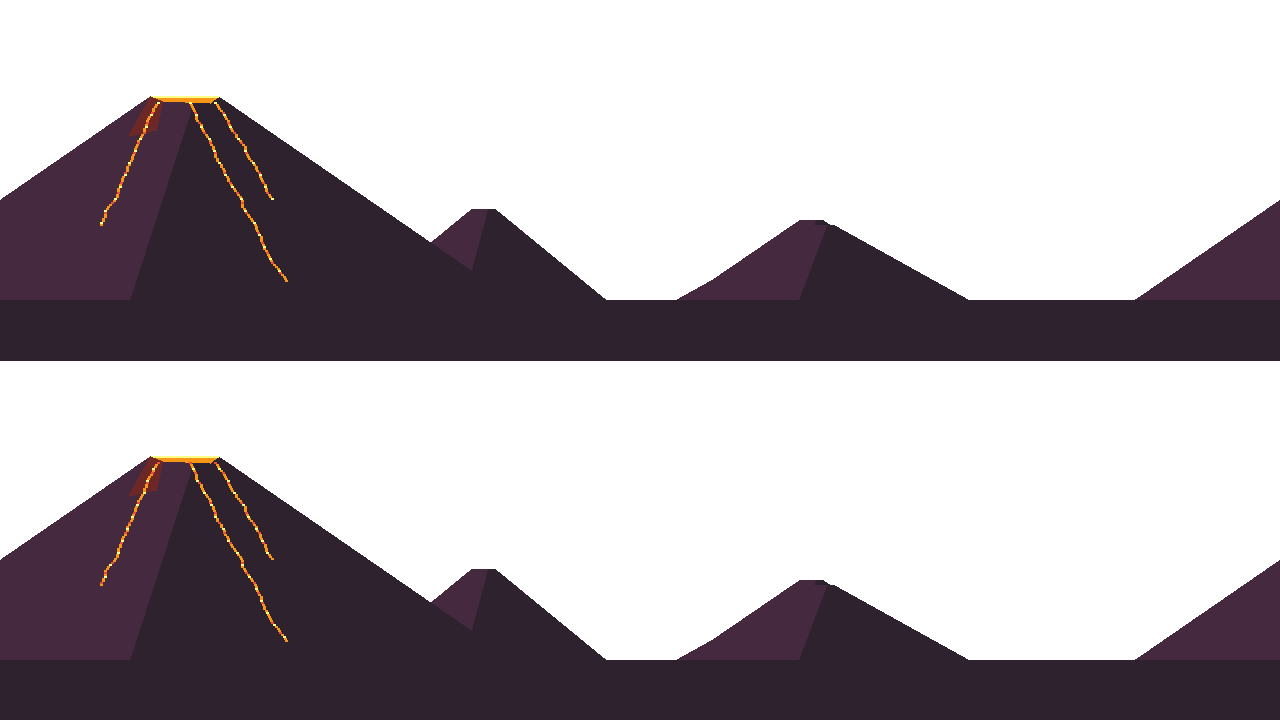
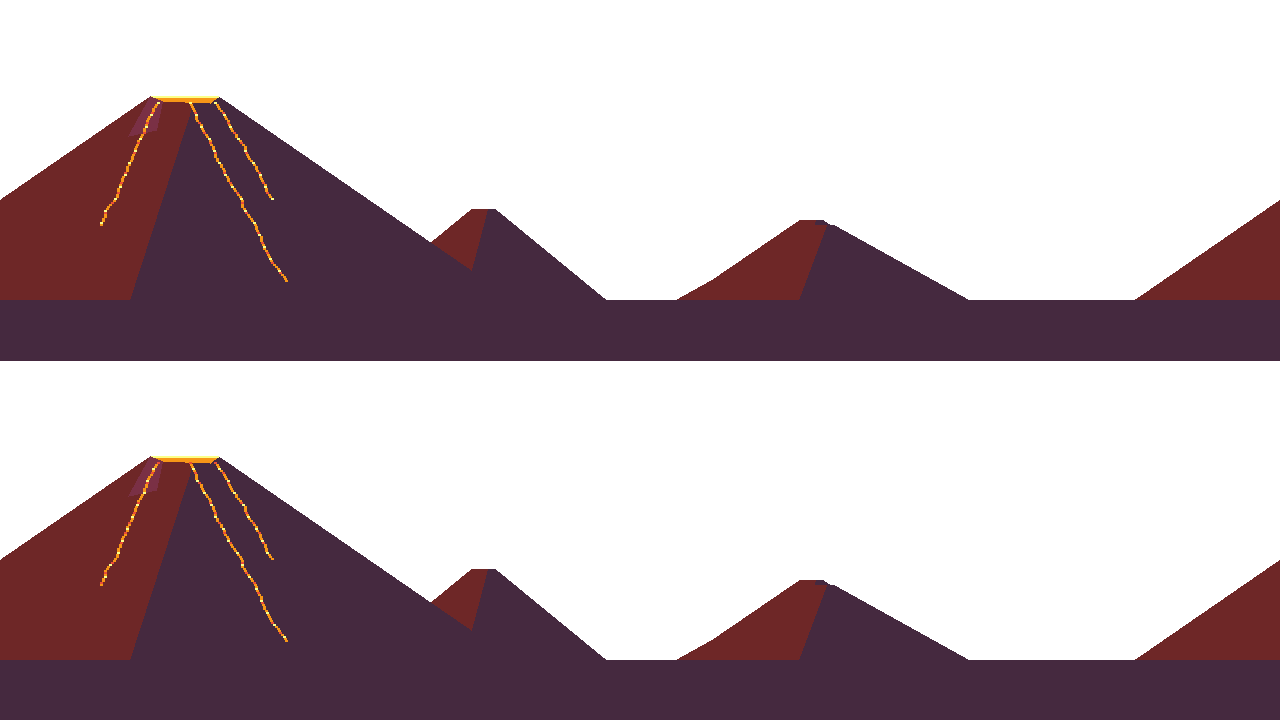
M15 group 2, batch B: Final Plateau, Training Grid, Ember Forge and Frostpeak have backdrops that stay behind the stage; Frostpeak's peaks keep the snow's colours (a stated exception to the colours rule) but are flatter and nearer the sky's (D-065)

diff --git a/src/isofightr/render/backdrop.py b/src/isofightr/render/backdrop.py
@@ -78,10 +78,10 @@ DUSK: Final[Mood] = Mood(
 """Dusk: indigo overhead, the last orange along the horizon (Lily Pads)."""
 NIGHT: Final[Mood] = Mood(
     sky=("2e222f", "323353", "323353", "484a77"),
-    cloud=("625565", "3e3546", "2e222f"),
+    cloud=("625565", "45293f", "2e222f"),
     island_top="484a77",
-    island_side=("3e3546", "2e222f"),
-    ruin="7f708a",
+    island_side=("45293f", "2e222f"),
+    ruin="625565",
 )
 """Night: near black overhead, a deep blue toward the horizon (Final Plateau)."""
 VOID: Final[Mood] = Mood(
@@ -102,7 +102,7 @@ EMBER: Final[Mood] = Mood(
 """Smoke lit from below: black overhead, red and orange toward the ground (Ember Forge)."""
 DAWN: Final[Mood] = Mood(
     sky=("4d9be6", "8fd3ff", "c7dcd0", "fdcbb0"),
-    cloud=("ffffff", "fdcbb0", "c7dcd0"),
+    cloud=("ffffff", "fdcbb0", "eaaded"),
     island_top="ffffff",
     island_side=("9babb2", "7f708a"),
     ruin="ffffff",
@@ -833,10 +833,10 @@ PAINTERS["aurora"] = paint_aurora
 # --- the holo-room (Training Grid) ---------------------------------------------------------
 
 LATTICE_FAR: Final[tuple[str, int]] = ("3e3546", 160)
-LATTICE_NEAR: Final[tuple[str, int]] = ("484a77", 320)
+LATTICE_NEAR: Final[tuple[str, int]] = ("625565", 320)
 """A lattice of the room's walls: the colour of its lines and the width of one diamond in
 pixels (it must divide the layer's width, so the layer wraps)."""
-PANEL_COLOURS: Final[tuple[str, str, str]] = ("4d65b4", "484a77", "4d9be6")
+PANEL_COLOURS: Final[tuple[str, str, str]] = ("0b5e65", "374e4a", "0b8a8f")
 """Read-outs floating in the room: their frames, their dim bars, their lit bars."""
 PANEL_FRAMES: Final[int] = 2
 PANELS: Final[int] = 14
@@ -902,11 +902,14 @@ PAINTERS["holo"] = paint_holo
 
 # --- the volcano (Ember Forge) -------------------------------------------------------------
 
-CONE_COLOURS: Final[tuple[str, str, str]] = ("6e2727", "45293f", "2e222f")
+CONE_COLOURS: Final[tuple[str, str, str]] = ("7a3045", "6e2727", "45293f")
 """The volcano: the side its crater lights, its flank, its far side."""
 LAVA_COLOURS: Final[tuple[str, str, str]] = ("fbff86", "f79617", "ea4f36")
 """Molten rock: white-hot, flowing, cooling."""
-RIDGE_COLOURS: Final[tuple[str, str]] = ("45293f", "2e222f")
+RIDGE_COLOURS: Final[tuple[str, str]] = ("7a3045", "6e2727")
+PLAIN_LAVA: Final[tuple[str, str, str]] = ("f57d4a", "b33831", "ae2334")
+"""The far river of lava: its few bright glints, its flow, its cooler near bank. Deep reds,
+not the forge's own orange and yellow (decision D-065)."""
 LAVA_FRAMES: Final[int] = 2
 CRATER: Final[tuple[int, int]] = (184, 96)
 """Where the crater's lip is on the volcano's layer."""
@@ -1011,7 +1014,7 @@ def lava_plain(seed: int, width: int = LAYER_WIDTH, height: int = NATIVE_H) -> I
     jagged ridge of black rock with a river of lava beyond it, whose glints move. It wraps."""
     rng = random.Random(seed)
     rock, shade = (hex_rgb(value) for value in RIDGE_COLOURS)
-    hot, flow, cool = (hex_rgb(value) for value in LAVA_COLOURS)
+    hot, flow, cool = (hex_rgb(value) for value in PLAIN_LAVA)
     image = Image.new("RGBA", (width, height * LAVA_FRAMES))
     draw = ImageDraw.Draw(image)
     river = 296
@@ -1024,6 +1027,7 @@ def lava_plain(seed: int, width: int = LAYER_WIDTH, height: int = NATIVE_H) -> I
     glints = [
         (rng.randrange(width), river + rng.randint(3, 20), rng.randint(4, 12)) for _ in range(60)
     ]
+    # Every other glint is the bright one; the rest are the near bank's colour.
     for frame in range(LAVA_FRAMES):
         top = frame * height
         draw.rectangle((0, top + river, width, top + river + 26), fill=flow)
@@ -1065,9 +1069,42 @@ PAINTERS["volcano"] = paint_volcano
 # --- snowy peaks at dawn (Frostpeak) -------------------------------------------------------
 
 DAWN_SUN: Final[tuple[int, int]] = (150, 176)
-FAR_SNOW_PEAKS: Final[tuple[str, str, str]] = ("ffffff", "c7dcd0", "9babb2")
-NEAR_SNOW_PEAKS: Final[tuple[str, str, str]] = ("ffffff", "9babb2", "7f708a")
-"""A range of snowy mountains: their sunlit snow, their rock, their rock in shadow."""
+Blend = tuple[str, str, int]
+"""Two colours and how many sixteenths of the first: an ordered dither of them."""
+FAR_SNOW_PEAKS: Final[tuple[str, str, str]] = ("ffffff", "c7dcd0", "8fd3ff")
+"""The far range at dawn: its snow, its lit flank, its shaded one, which is the sky's own
+blue: distance has all but swallowed it."""
+NEAR_SNOW_PEAKS: Final[tuple[str, str, Blend]] = ("ffffff", "8fd3ff", ("8fd3ff", "9babb2", 8))
+"""The nearer range: a little bluer and, in shadow, a blend of the sky's blue and a grey.
+
+**Frostpeak is the one stage excused from the colours rule** (``backdrop_rules.EXCUSED``):
+every pale blue and grey of the palette is its own snow and ice, and mountains blended from
+the two pale colours that are left (aqua and lavender) came out pink and mint, which was
+worse. So its peaks are in the snow's colours, but nearer the sky's colour than before and
+flatter (decision D-065)."""
+VALLEY_CLOUD: Final[tuple[str, str, str]] = ("ffffff", "c7dcd0", "8fd3ff")
+_FIRST: Final[str] = "010203"
+"""A stand-in a picture is drawn in before that tone is replaced by a blend."""
+
+
+def blended(image: Image.Image, tones: dict[str, Blend]) -> Image.Image:
+    """Return a picture with each stand-in colour replaced by its blend: an ordered dither of
+    two palette colours, so no new colour appears."""
+    wanted = {
+        hex_rgb(stand_in): (hex_rgb(first), hex_rgb(second), share)
+        for stand_in, (first, second, share) in tones.items()
+    }
+    result = image.copy()
+    pixels = result.load()
+    assert pixels is not None
+    for y in range(result.height):
+        for x in range(result.width):
+            red, green, blue, alpha = pixels[x, y]
+            found = wanted.get((red, green, blue))
+            if found is not None and alpha:
+                first, second, share = found
+                pixels[x, y] = (*(first if BAYER_4[y % 4][x % 4] < share else second), alpha)
+    return result
 
 
 def paint_peaks(mood: Mood, seed: int) -> dict[str, Image.Image]:
@@ -1077,8 +1114,17 @@ def paint_peaks(mood: Mood, seed: int) -> dict[str, Image.Image]:
         "bg_0_sky.png": sunny_sky(mood, DAWN_SUN),
         "bg_1_far_clouds.png": clouds(mood, seed, 6, (50, 130), (10, 16)),
         "bg_2_far_peaks.png": peaks(seed + 1, 150, 90, FAR_SNOW_PEAKS),
-        "bg_3_near_peaks.png": peaks(seed + 2, 200, 100, NEAR_SNOW_PEAKS),
-        "bg_4_bank.png": cloud_bank(mood, seed + 3, 304, 12, 30),
+        "bg_3_near_peaks.png": blended(
+            peaks(seed + 2, 200, 100, (NEAR_SNOW_PEAKS[0], NEAR_SNOW_PEAKS[1], _FIRST)),
+            {_FIRST: NEAR_SNOW_PEAKS[2]},
+        ),
+        "bg_4_bank.png": cloud_bank(
+            Mood(mood.sky, VALLEY_CLOUD, mood.island_top, mood.island_side, mood.ruin),
+            seed + 3,
+            304,
+            12,
+            30,
+        ),
     }
 
 

diff --git a/src/isofightr/data/backdrop_rules.py b/src/isofightr/data/backdrop_rules.py
@@ -30,7 +30,7 @@ Pure Python plus Pillow (no ``arcade``), so the report runs in a test without a 
 from __future__ import annotations
 
 import math
-from dataclasses import dataclass
+from dataclasses import dataclass, replace
 from functools import cache
 from pathlib import Path
 from typing import Final
@@ -59,6 +59,11 @@ TILE_TOP: Final[tuple[int, int]] = (32, 16)
 SKY_WINDOW: Final[tuple[int, int, int, int]] = (160, 80, 480, 280)
 """The part of the sky picture the island stands in front of (left, top, right, bottom)."""
 RULES: Final[tuple[str, ...]] = ("colours", "contrast", "haze")
+EXCUSED: Final[dict[str, tuple[str, ...]]] = {"frostpeak": ("colours",)}
+"""Rules a stage is excused from, with the reason in the Decision Log (D-065). Frostpeak:
+every pale blue and grey of the palette is its own snow and ice, so mountains and cloud
+behind it cannot avoid them and still look like mountains and cloud. It still has to pass
+contrast and haze."""
 Table = dict[Rgb, int]
 
 
@@ -179,6 +184,8 @@ class LayerReport:
     haze_limit: float
     failed: tuple[str, ...]
     """The rules it breaks (names from :data:`RULES`)."""
+    excused: tuple[str, ...] = ()
+    """Rules it breaks that its stage is excused from (:data:`EXCUSED`)."""
 
     @property
     def passed(self) -> bool:
@@ -237,9 +244,18 @@ def check_stage(
             whole = picture.convert("RGBA")
         pictures.append(whole.crop((0, 0, whole.width, whole.height // layer.frames)))
     haze = haze_colour(pictures[0])
-    return [
+    excused = EXCUSED.get(stage.id, ())
+    reports = [
         check_layer(picture, layer.image, layer.parallax, playfield, haze, sky=index == 0)
         for index, (layer, picture) in enumerate(zip(stage.backgrounds, pictures, strict=True))
+    ]
+    return [
+        replace(
+            each,
+            failed=tuple(rule for rule in each.failed if rule not in excused),
+            excused=tuple(rule for rule in each.failed if rule in excused),
+        )
+        for each in reports
     ]
 
 
@@ -255,7 +271,7 @@ def report_lines(reports: list[LayerReport]) -> list[str]:
         if each.sky:
             verdict = "sky"
         elif each.passed:
-            verdict = "pass"
+            verdict = "pass" + (f" (excused: {', '.join(each.excused)})" if each.excused else "")
         else:
             verdict = "FAIL " + ", ".join(each.failed)
         measures = f"shared {each.shared:4.0%}  "

diff --git a/tests/test_backdrop_rules.py b/tests/test_backdrop_rules.py
@@ -31,11 +31,7 @@ from isofightr.data.stage_loader import list_stage_ids, load_stage
 
 NOT_YET_REPAINTED = {
     "dune_bazaar",
-    "ember_forge",
-    "final_plateau",
-    "frostpeak",
     "neon_circuit",
-    "training_grid",
 }
 """Stages whose backdrops still break a rule: M15 group 2 repaints them in three batches and
 takes each off this list as it passes. Never add a stage here."""
@@ -186,3 +182,30 @@ def test_things_that_look_like_ground_keep_out_of_the_stages_columns() -> None:
             assert screen + half <= left or screen - half >= right, (x, half)
     far_off = (700 - LAYER_SHIFT) % LAYER_WIDTH
     assert clear_of_stage(far_off, 10) == far_off, "already clear: left where it was"
+
+
+def test_frostpeak_is_excused_from_the_colours_rule_and_from_nothing_else() -> None:
+    """Every pale blue and grey of the palette is Frostpeak's own snow (decision D-065), so
+    its mountains may share them; they still have to be flat and near the sky's colour."""
+    from isofightr.data.backdrop_rules import EXCUSED
+
+    assert EXCUSED == {"frostpeak": ("colours",)}
+    reports = check_stage(load_stage("frostpeak"))
+    peaks = [each for each in reports if "peaks" in each.image]
+    assert len(peaks) == 2 and all(each.excused == ("colours",) for each in peaks)
+    assert all(each.passed and each.shared > 0.9 for each in peaks)
+    assert all(each.contrast <= MAX_CONTRAST and each.haze <= each.haze_limit for each in peaks)
+    assert "excused: colours" in "\n".join(report_lines(reports))
+    assert not any(each.excused for each in check_stage(load_stage("sky_ruins")))
+
+
+def test_a_blend_is_an_ordered_dither_of_two_palette_colours() -> None:
+    from isofightr.render.backdrop import blended
+
+    flat = picture(((1, 2, 3), 8), ((9, 9, 9), 8), size=16)
+    mixed = blended(flat, {"010203": ("8fd3ff", "9babb2", 8)})
+    top = colour_table(mixed.crop((0, 0, 16, 8)))
+    assert top == {(0x8F, 0xD3, 0xFF): 64, (0x9B, 0xAB, 0xB2): 64}, "half and half"
+    assert colour_table(mixed.crop((0, 8, 16, 16))) == {(9, 9, 9): 128}, "the rest untouched"
+    mostly = blended(flat, {"010203": ("8fd3ff", "9babb2", 12)})
+    assert colour_table(mostly)[(0x8F, 0xD3, 0xFF)] == 96
